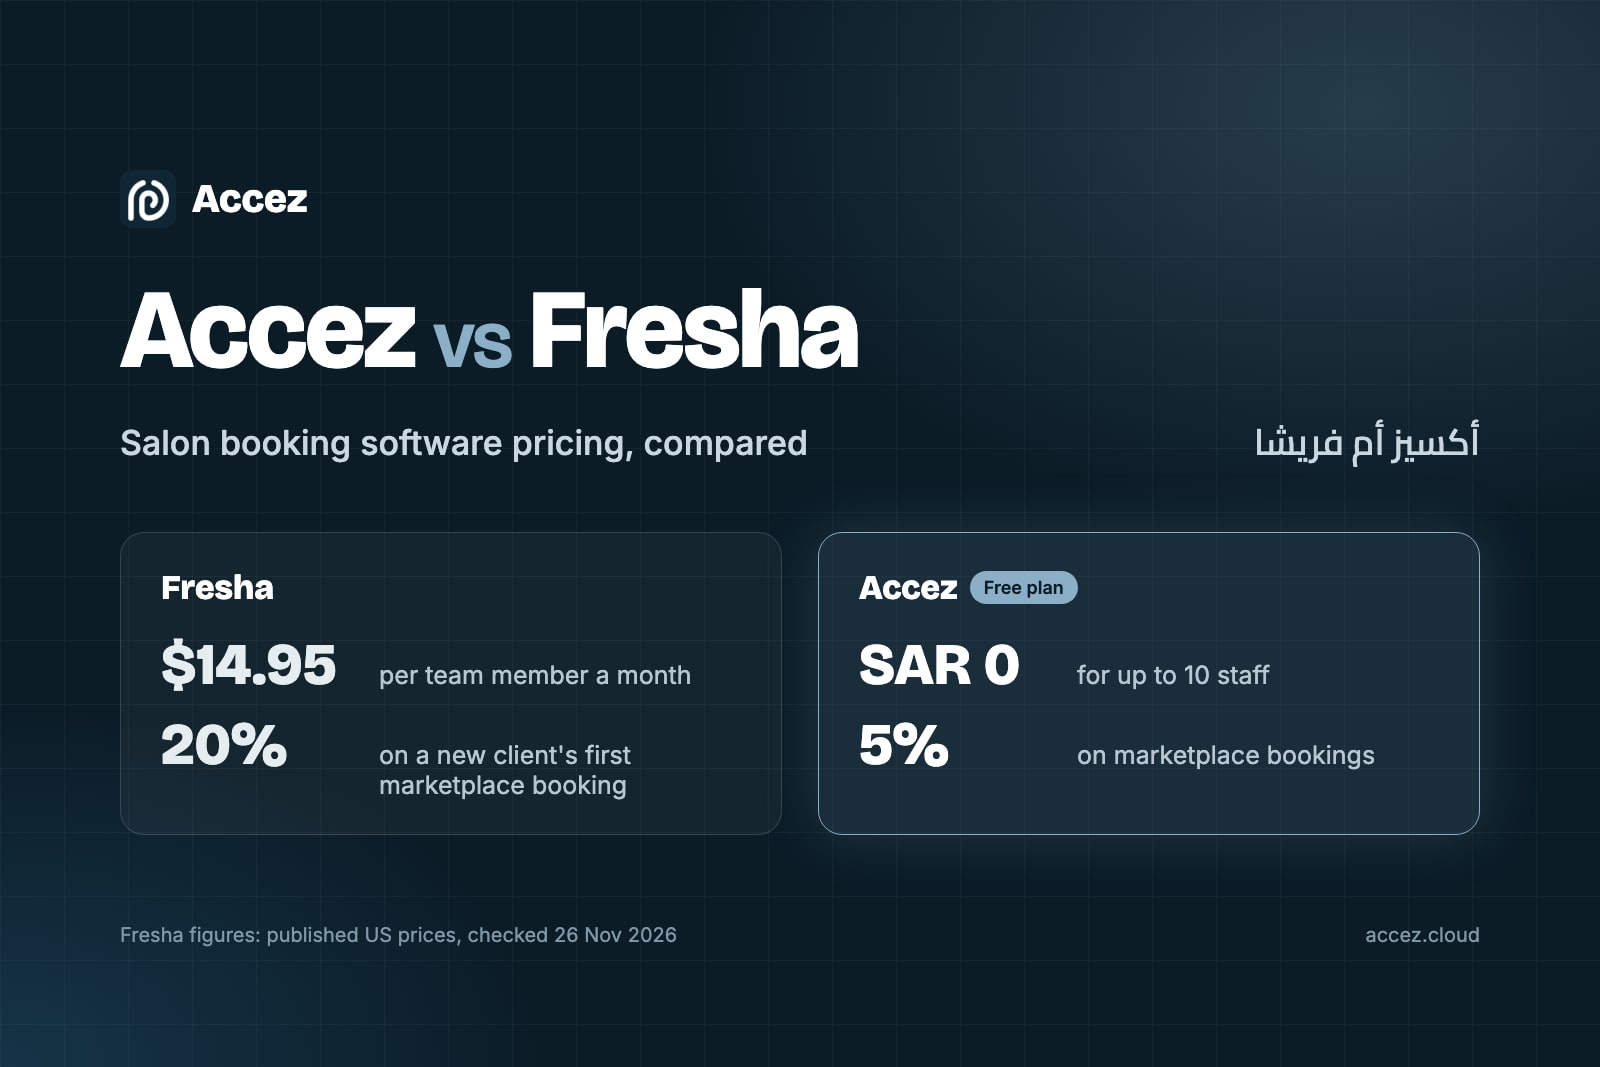
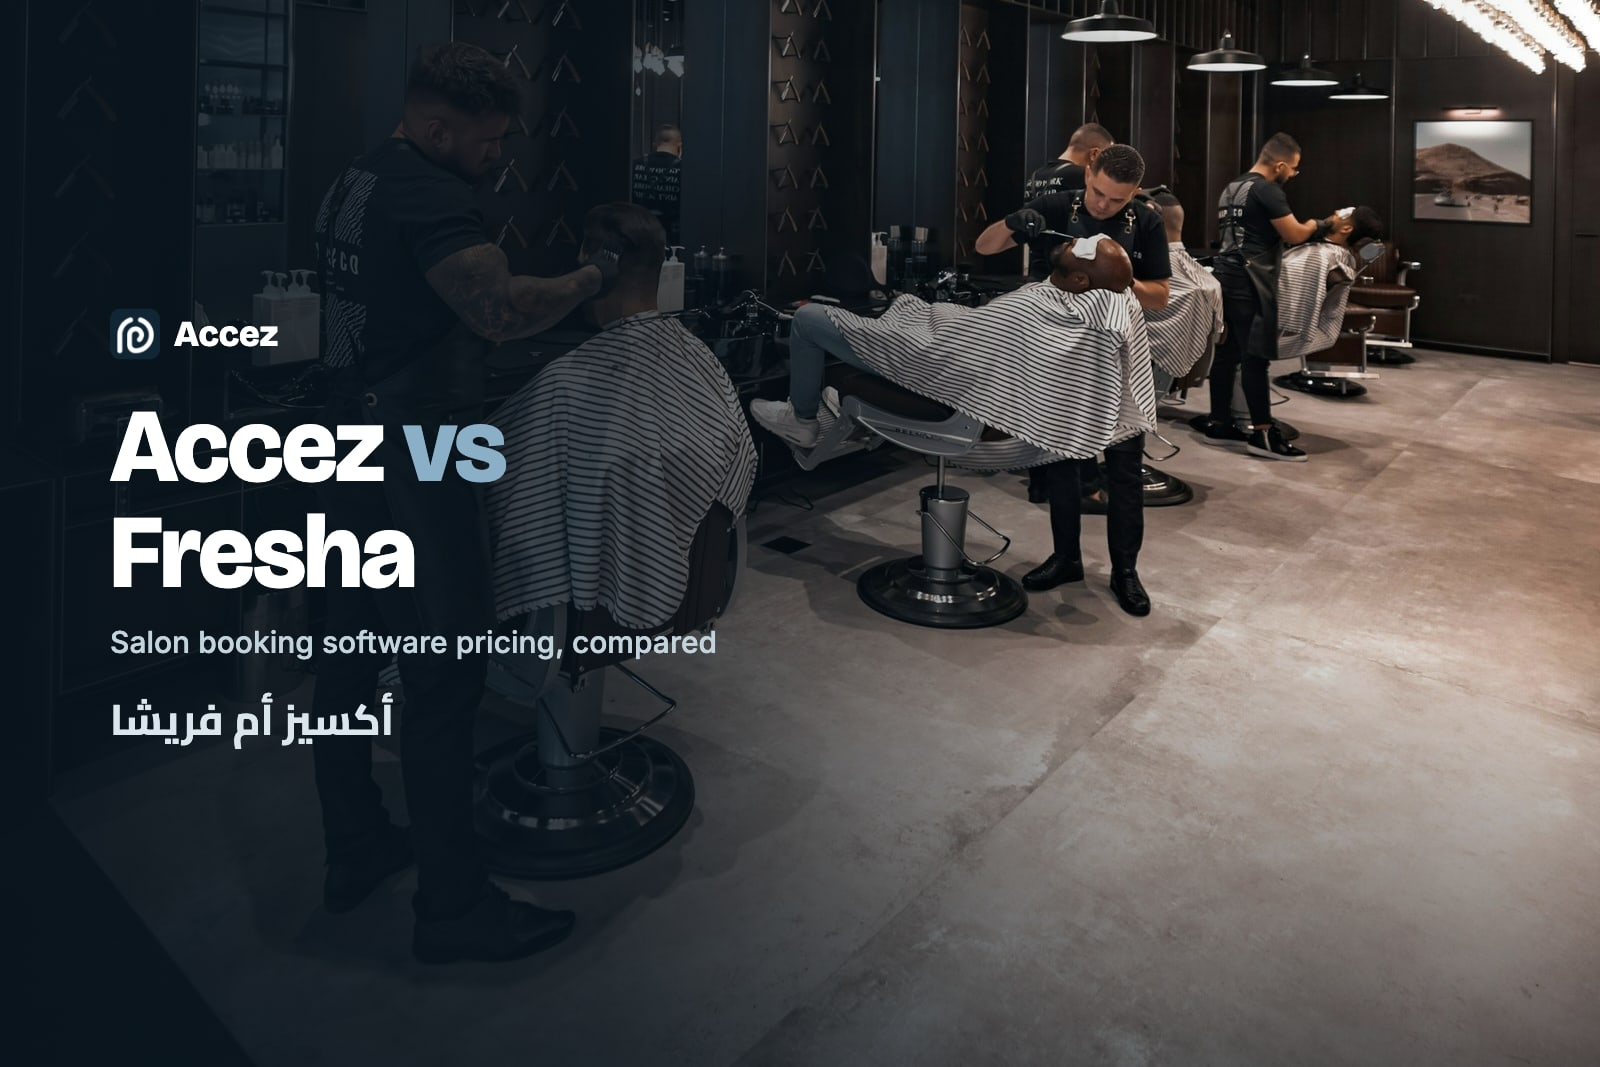
content(blog): photo cover for Accez vs Fresha instead of the stats card
Owner wanted a real background photo, not a card full of figures: modern
barbershop with barbers at work (Chaps & Co on Unsplash, cropped below the
shop sign), dark fade on the left with the Accez mark and the title
"Accez vs Fresha" in English and Arabic. Credit kept in the frontmatter
only (not shown on the page) so n8n never reuses the photo.

diff --git a/content/blog/accez-vs-fresha-salon-booking-software-pricing.md b/content/blog/accez-vs-fresha-salon-booking-software-pricing.md
@@ -12,7 +12,9 @@ date: "2026-11-26"
 author: "Accez Team"
 authorAr: "فريق أكسيز"
 coverImage: "/images/blog/accez-vs-fresha-salon-booking-software-pricing.webp"
-coverImageAlt: "Accez vs Fresha pricing: Fresha charges $14.95 per team member a month and 20% on a new client's first marketplace booking, Accez is free for up to 10 staff with 5% on marketplace bookings"
+coverImageAlt: "Barbers working on clients in a modern barbershop, with the title Accez vs Fresha"
+coverImageCredit: "Photo by Chaps & Co on Unsplash"
+coverImageCreditUrl: "https://unsplash.com/photos/barbers-cutting-hair-in-a-modern-salon-BX8OTlmHOaI"
 category: "Industry Insights"
 categoryAr: "رؤى الصناعة"
 tags: ["accez vs fresha", "fresha alternative", "salon booking software", "pricing", "barbershop", "saudi arabia"]
